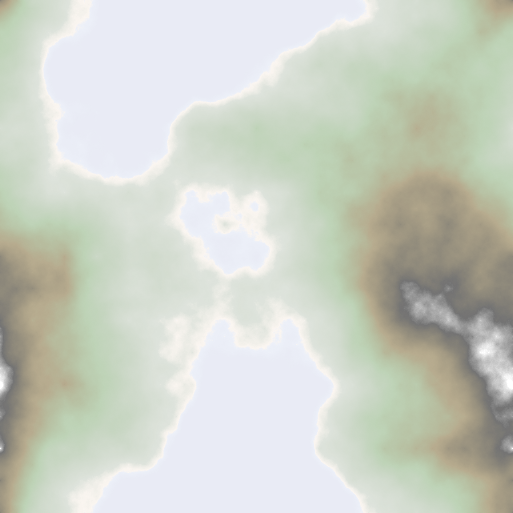
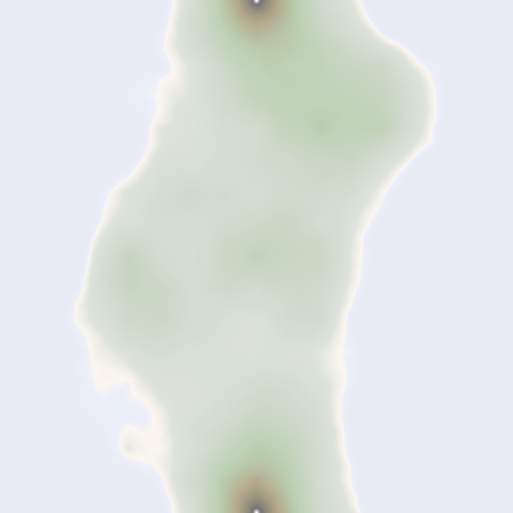
Voxels baby all the way to the bank

diff --git a/voxel/main.js b/voxel/main.js
@@ -1,107 +1,114 @@
 //@ts-check
 import { CanvasBlitter } from './lib/canvas-blitter.js'
 import { loadImageData } from './lib/images.js'
+import { HeightmapAlpha } from './heightmap.js'
+import { Camera } from './camera.js'
+import { Controls } from './controls.js'
 
-/** @type {ImageData} */
+/** @type {HeightmapAlpha} */
 let terrainMap
 
 /** @type {CanvasBlitter} */
 let blitter
 
-// Player position and angle
-let posX = 128
-let posY = 128
-let angle = -1.8
-let horizon = 256 // Height of the horizon line in pixels
+/** @type {Camera} */
+let camera
 
-const MAX_DIST = 300
-const HEIGHT_SCALE = 500
+/** @type {Controls} */
+let controls
+
+const MAX_DIST = 1000
+const LIGHT_ATTEN_FACTOR = 3 / MAX_DIST
+const Z_LOD_FACTOR = 7 / MAX_DIST
+const HEIGHT_SCALE = 700
 
 async function init() {
-  terrainMap = await loadImageData('map.png')
+  // const mapImageData = await loadImageData('map.png')
+
+  // Special case for Comanche maps
+  const mapImageData = await loadImageData('maps/C7W.png')
+  const heightImageData = await loadImageData('maps/D7.png')
+  // Update mapImageData to use heightmap alpha
+  for (let i = 0; i < mapImageData.data.length; i += 4) {
+    mapImageData.data[i + 3] = heightImageData.data[i] // Use alpha channel from heightmap
+  }
+
+  terrainMap = new HeightmapAlpha(mapImageData)
 
   blitter = new CanvasBlitter()
   blitter.showFPS = true
 
-  window.addEventListener('keydown', (e) => {
-    // W,A,S,D keys control movement
-    const key = e.key.toUpperCase()
-    if (key === 'A') {
-      angle -= 0.1
-    } else if (key === 'D') {
-      angle += 0.1
-    } else if (key === 'W') {
-      posX += Math.cos(angle) * 3
-      posY += Math.sin(angle) * 3
-    } else if (key === 'S') {
-      posX -= Math.cos(angle) * 3
-      posY -= Math.sin(angle) * 3
-    }
+  camera = new Camera(terrainMap.width / 2, terrainMap.height / 2, 200, -3.4, blitter.height / 3)
+  controls = new Controls()
 
-    // R,F look up/down
-    if (key === 'R') {
-      horizon += 20
-    } else if (key === 'F') {
-      horizon -= 20
-    }
-  })
-
-  posX = terrainMap.width / 2
-  posY = terrainMap.height / 2
-
+  // Start the rendering loop
   renderLoop(performance.now())
 }
 
 function drawTerrain() {
-  blitter.fill(100, 180, 235) // Darker sky blue
-
-  const fov = Math.PI / 2.5
-  const leftAngle = angle - fov / 2
-  const rightAngle = angle + fov / 2
+  const leftAngle = camera.angle - camera.fov / 2
+  const rightAngle = camera.angle + camera.fov / 2
 
   const heightBuffer = new Array(blitter.width).fill(blitter.height)
 
-  // Place the camera at the terrain height
-  const terrainIndexPos = (Math.floor(posY) * terrainMap.width + Math.floor(posX)) * 4
-  const terrainDataPos = terrainMap.data.slice(terrainIndexPos, terrainIndexPos + 4)
-  const camHeight = terrainDataPos[3] + 20 // Adjust camera height based on terrain data
-
-  for (let z = 1; z < MAX_DIST; z++) {
+  let z = 1
+  let dz = 1 //Z_LOD_FACTOR
+  while (z < MAX_DIST) {
     const plLeft = {
-      x: posX + Math.cos(leftAngle) * z,
-      y: posY + Math.sin(leftAngle) * z,
+      x: camera.x + Math.cos(leftAngle) * z,
+      y: camera.y + Math.sin(leftAngle) * z,
     }
     const plRight = {
-      x: posX + Math.cos(rightAngle) * z,
-      y: posY + Math.sin(rightAngle) * z,
+      x: camera.x + Math.cos(rightAngle) * z,
+      y: camera.y + Math.sin(rightAngle) * z,
     }
 
     let dx = (plRight.x - plLeft.x) / blitter.width
     let dy = (plRight.y - plLeft.y) / blitter.width
 
     const invz = (1 / z) * HEIGHT_SCALE
-    const lightDistance = Math.min(1 / (z * 0.01), 1) // Adjust light distance based on z
+    const lightAtten = Math.min(1 / (z * LIGHT_ATTEN_FACTOR), 1)
 
     for (let i = 0; i < blitter.width; i++) {
       let worldX = plLeft.x + dx * i
       let worldY = plLeft.y + dy * i
 
-      const terrainIndex = (Math.floor(worldY) * terrainMap.width + Math.floor(worldX)) * 4
-      const colour = terrainMap.data.slice(terrainIndex, terrainIndex + 4)
-      if (!colour[3]) continue
+      const colour = terrainMap.getColor(worldX, worldY)
+      const h = terrainMap.getHeight(worldX, worldY)
 
       // The floor function here is VERY important
-      const height = Math.floor((camHeight - colour[3]) * invz + horizon)
+      const height = Math.floor((camera.z - h) * invz + camera.horizon)
 
       // Draw vertical column
-      blitter.drawVLine(i, height, heightBuffer[i], colour[0] * lightDistance, colour[1] * lightDistance, colour[2] * lightDistance)
+      blitter.drawVLine(i, height, heightBuffer[i], colour[0] * lightAtten, colour[1] * lightAtten, colour[2] * lightAtten)
 
       if (height < heightBuffer[i]) heightBuffer[i] = height
     }
+
+    z += dz
+    dz += Z_LOD_FACTOR
+  }
+}
+
+function updateCamera() {
+  if (controls.turn !== 0) {
+    camera.angle += controls.turn * 0.02
+  }
+
+  if (controls.move !== 0) {
+    camera.x += Math.cos(camera.angle) * 6 * controls.move
+    camera.y += Math.sin(camera.angle) * 6 * controls.move
+  }
+
+  if (controls.lookAngle !== 0) {
+    camera.horizon -= controls.lookAngle * 5
   }
 }
 
 function renderLoop(ts) {
+  updateCamera()
+
+  blitter.fill(100, 180, 235) // Sky blue
   drawTerrain()
 
   blitter.draw(ts)

diff --git a/voxel/controls.js b/voxel/controls.js
@@ -1,0 +1,101 @@
+export class Controls {
+  move = 0
+  turn = 0
+  lookAngle = 0
+  mouseLockX = 0
+  mouseLockY = 0
+
+  constructor() {
+    window.addEventListener('keydown', (event) => {
+      switch (event.key) {
+        case 'w':
+          this.move = 1
+          break
+        case 's':
+          this.move = -0.5
+          break
+        case 'a':
+          this.turn = -1
+          break
+        case 'd':
+          this.turn = 1
+          break
+      }
+    })
+
+    window.addEventListener('keyup', (event) => {
+      switch (event.key) {
+        case 'w':
+          this.move = 0
+          break
+        case 's':
+          this.move = 0
+          break
+        case 'a':
+          this.turn = 0
+          break
+        case 'd':
+          this.turn = 0
+          break
+      }
+    })
+
+    window.addEventListener('blur', () => {
+      this.move = 0
+      this.turn = 0
+    })
+
+    // add mouse capture onclick
+    window.addEventListener('click', (event) => {
+      if (document.pointerLockElement !== document.body) {
+        document.body.requestPointerLock()
+        this.mouseLockX = event.clientX
+        this.mouseLockY = event.clientY
+      }
+    })
+
+    // handle mouse lock
+    document.addEventListener('pointerlockchange', () => {
+      if (document.pointerLockElement !== document.body) {
+        this.move = 0
+        this.turn = 0
+        this.lookAngle = 0
+      }
+    })
+
+    window.addEventListener('mousedown', (event) => {
+      if (document.pointerLockElement === document.body) {
+        if (event.button === 0) {
+          // Left mouse button
+          this.move = 1
+        } else if (event.button === 2) {
+          // Right mouse button
+          this.move = -0.5
+        }
+      }
+    })
+
+    window.addEventListener('mouseup', (event) => {
+      if (event.button === 0 || event.button === 2) {
+        this.move = 0
+      }
+    })
+
+    // handle mouse movement
+    document.addEventListener('mousemove', (event) => {
+      if (document.pointerLockElement === document.body) {
+        if (Math.abs(event.movementX) > 5) {
+          this.turn = event.movementX / 10
+        } else {
+          this.turn = 0
+        }
+
+        if (Math.abs(event.movementY) > 5) {
+          this.lookAngle = event.movementY / 10
+        } else {
+          this.lookAngle = 0
+        }
+      }
+    })
+  }
+}

diff --git a/voxel/heightmap.js b/voxel/heightmap.js
@@ -1,0 +1,74 @@
+//@ts-check
+// ===============================================================================
+// Heightmap
+// A class for managing a heightmap from an ImageData object.
+// This class provides methods to get height and color at specific coordinates.
+// This assumes the height is stored in the alpha channel of the image data.
+// ===============================================================================
+
+export class HeightmapAlpha {
+  /** @type {number} */
+  #width
+  /** @type {number} */
+  #height
+  /** @type {Uint8ClampedArray} */
+  #data
+
+  /**
+   * Creates an instance of Heightmap.
+   * @param {ImageData} imageData - The ImageData object containing heightmap data.
+   */
+  constructor(imageData) {
+    this.#width = imageData.width
+    this.#height = imageData.height
+    this.#data = imageData.data
+
+    console.log(`Heightmap created with dimensions: ${this.#width}x${this.#height}`)
+  }
+
+  /**
+   * Gets the height at the specified coordinates with wrapping.
+   * @param {number} x - The x coordinate.
+   * @param {number} y - The y coordinate.
+   * @returns {number} The height at the specified coordinates in range 0-255.
+   */
+  getHeight(x, y) {
+    // Floor the coordinates first, then wrap to stay within bounds
+    x = Math.floor(x)
+    y = Math.floor(y)
+    x = ((x % this.#width) + this.#width) % this.#width
+    y = ((y % this.#height) + this.#height) % this.#height
+
+    const index = (y * this.#width + x) * 4
+    return this.#data[index + 3] // Return the alpha channel as height
+  }
+
+  /**
+   * Gets the color at the specified coordinates as an RGB array with wrapping.
+   * @param {number} x - The x coordinate.
+   * @param {number} y - The y coordinate.
+   * @returns {Array<number>} An array containing the RGB values.
+   */
+  getColor(x, y) {
+    // Floor the coordinates first, then wrap to stay within bounds
+    x = Math.floor(x)
+    y = Math.floor(y)
+    x = ((x % this.#width) + this.#width) % this.#width
+    y = ((y % this.#height) + this.#height) % this.#height
+
+    const index = (y * this.#width + x) * 4
+    return [
+      this.#data[index], // Red
+      this.#data[index + 1], // Green
+      this.#data[index + 2], // Blue
+    ]
+  }
+
+  get width() {
+    return this.#width
+  }
+
+  get height() {
+    return this.#height
+  }
+}

diff --git a/voxel/camera.js b/voxel/camera.js
@@ -1,0 +1,26 @@
+export class Camera {
+  /** @type {number} */
+  x = 0
+  /** @type {number} */
+  y = 0
+  /** @type {number} */
+  z = 0
+
+  /** @type {number} */
+  angle = 0
+
+  /** @type {number} */
+  horizon = 0
+
+  fov = Math.PI / 2 // Field of view in radians
+
+  constructor(x = 0, y = 0, z = 0, angle = 0, horizon = 0) {
+    this.x = x
+    this.y = y
+    this.z = z
+    this.angle = angle
+    this.horizon = horizon
+
+    console.log(`Camera initialized at (${this.x}, ${this.y}, ${this.z}) with angle ${this.angle} and horizon ${this.horizon}`)
+  }
+}

diff --git a/voxel/index.html b/voxel/index.html
@@ -20,7 +20,7 @@
     }
   </style>
   <body>
-    <canvas width="800" height="600"></canvas>
+    <canvas width="1024" height="600"></canvas>
     <script type="module" src="main.js"></script>
   </body>
 </html>
